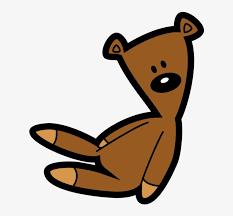
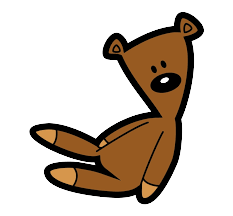
add colors

diff --git a/css/home.css b/css/home.css
@@ -99,7 +99,7 @@ video{
 }
 body{
   width: 100vw;
-  background-color: antiquewhite;
+  background-color: #EDF6E5;
 }
 
 #text h2 {
@@ -110,11 +110,14 @@ body{
 }
 #text p{
   text-align: center;
+  letter-spacing: 1px;
+  line-height: 1.5;
   
 }
 #text{
+  width: 99vw;
   border-radius: 30px;
-  background-color: rgb(11, 117, 117);
+  background-color: #F38BA0;
 }
 #text button{
   margin-left: 42%;
@@ -126,6 +129,10 @@ body{
   text-align: center;
   cursor: pointer;
   border-radius: 40px;
+  background-color: #FFBCBC;
+}
+#text button:hover{
+  opacity: 0.7;
 }
 #saleText{
   margin-top: 30px;
@@ -134,7 +141,7 @@ body{
   font-weight: bolder;
 }
 #onSale{
-  width: 100vw;
+  width: 95vw;
   margin-left: 100px;
   margin-right: 100px;
   display: inline-grid;
@@ -148,7 +155,7 @@ body{
 #onSale div{
   padding: 20px;
   width: 70%;
-  background-color: cornsilk;
+  background-color: #F38BA0;
   border-radius: 30px;
   text-align: center;
 }
@@ -162,6 +169,10 @@ body{
   color: white;
   text-align: center;
   cursor: pointer;
+  background-color: #FFBCBC;
+}
+#onSale div button:hover{
+  opacity: 0.7;
 }
 #onSale div p{
   padding: 3px;

diff --git a/index.html b/index.html
@@ -15,7 +15,7 @@
 <body>
     <header>
         <div>
-            <img src="img/logo/Capture.PNG" alt="" id="logo">
+            <img src="img/logo/toy-store-logo-cute-kids-shop-symbol-vector-18038079 (2).png" alt="" id="logo">
         </div>
         <nav >
             <ul id="links-ul">
@@ -36,7 +36,6 @@
                 </li>
             </ul>
         </nav>
-        <h1 id="shop-name">Pineapple-Shop</h1>
     </header>
     <main>
         <div>
@@ -46,7 +45,7 @@
 
 
         <div id="text">
-            <h2>Welcome to Pineapple</h2>
+            <h2>Welcome to Pineapple-Shop</h2>
             <p>All the toys you need for your kids of all ages, Kids Can Enjoy Hours of Imaginative Play With Exciting
                 Toys <br> Pineapple is a wonderland of fun for children of all ages. Our vast selection includes a lot
                 of great values thanks to our everyday low prices too, so you can stock up on toys for any occasion.

diff --git a/css/stylehf.css b/css/stylehf.css
@@ -1,17 +1,17 @@
 
   header{
     width: 100vw;
-    background-color: darkgrey;
+    background-color: #B5EAEA;
   }
   #logo {
-    width: 200px;
+    width: 150px;
     height: 100px;
     border-radius: 10px;
   }
   #links-ul{
     position: absolute;
     right: 25px;
-    top: 25px;
+    top: 45px;
     width: 50vw;
     display: inline-grid;
     grid-template-columns: repeat(5,1fr);
@@ -22,11 +22,13 @@
   .header-links{
     text-decoration: none;
     padding: 5px;
-    color: whitesmoke;
-    font-size: 15px;
+    color: #F38BA0;
+    font-size: 20px;
+
   }
 .header-links:hover{
-    background-color:gray;
+    background-color:#FFBCBC;
+    border-radius: 20px;
   }
 #shop-name {
   position: absolute;
@@ -40,7 +42,7 @@
 footer{
   margin-top: 30px;
   width: 100vw;
-  background-color: darkgrey;
+  background-color: #B5EAEA;
 }
 #contact-ul{
   margin-left: 15px;

diff --git a/draw.html b/draw.html
@@ -15,7 +15,7 @@
 <body>
     <header>
         <div>
-            <img src="img/logo/Capture.PNG" alt="" id="logo">
+            <img src="img/logo/toy-store-logo-cute-kids-shop-symbol-vector-18038079 (2).png" alt="" id="logo">
         </div>
         <nav >
             <ul id="links-ul">
@@ -36,7 +36,6 @@
                 </li>
             </ul>
         </nav>
-        <h1 id="shop-name">Pineapple-Shop</h1>
     </header>
     <main>
         <p>lets play a game, here you have a picture and you have to draw it to win</p>

diff --git a/about.html b/about.html
@@ -14,7 +14,7 @@
 <body>
     <header>
         <div>
-            <img src="img/logo/Capture.PNG" alt="" id="logo">
+            <img src="img/logo/toy-store-logo-cute-kids-shop-symbol-vector-18038079 (2).png" alt="" id="logo">
         </div>
         <nav >
             <ul id="links-ul">
@@ -35,7 +35,6 @@
                 </li>
             </ul>
         </nav>
-        <h1 id="shop-name">Pineapple-Shop</h1>
     </header>
 
     <main>

diff --git a/cart.html b/cart.html
@@ -19,7 +19,7 @@
 
     <header>
         <div>
-            <img src="img/logo/Capture.PNG" alt="" id="logo">
+            <img src="img/logo/toy-store-logo-cute-kids-shop-symbol-vector-18038079 (2).png" alt="" id="logo">
         </div>
         <nav >
             <ul id="links-ul">
@@ -40,7 +40,6 @@
                 </li>
             </ul>
         </nav>
-        <h1 id="shop-name">Pineapple-Shop</h1>
     </header>
     <main>
 

diff --git a/js/draw.js b/js/draw.js
@@ -1,8 +1,8 @@
 'use strict';
 let drawings = document.getElementById('drawings');
 let drawingsArr = [];
-drawingsArr.push('img/drawings/Unknown.jpg');
-drawingsArr.push('img/drawings/image2.jpg');
+drawingsArr.push('img/drawings/Unknown.png');
+drawingsArr.push('img/drawings/image2.png');
 drawingsArr.push('img/drawings/image3.png');
 drawingsArr.push('img/drawings/image4.png');
 drawingsArr.push('img/drawings/image5.png');

diff --git a/products.html b/products.html
@@ -15,7 +15,7 @@
 
   <header>
     <div>
-        <img src="img/logo/Capture.PNG" alt="" id="logo">
+        <img src="img/logo/toy-store-logo-cute-kids-shop-symbol-vector-18038079 (2).png" alt="" id="logo">
     </div>
     <nav >
         <ul id="links-ul">
@@ -36,7 +36,6 @@
             </li>
         </ul>
     </nav>
-    <h1 id="shop-name">Pineapple-Shop</h1>
 </header>
   <main>
 

diff --git a/css/drawing.css b/css/drawing.css
@@ -9,9 +9,11 @@ p{
     font-family:cursive;
 }
 #drawings{
-    margin-top: 50px;
+    position: absolute;
+    margin-top: 20px;
     margin-bottom: 20px;
-    margin-left: 700px;
+    margin-left: 20px;
+    border: 2px solid;
     
 }
 body{
